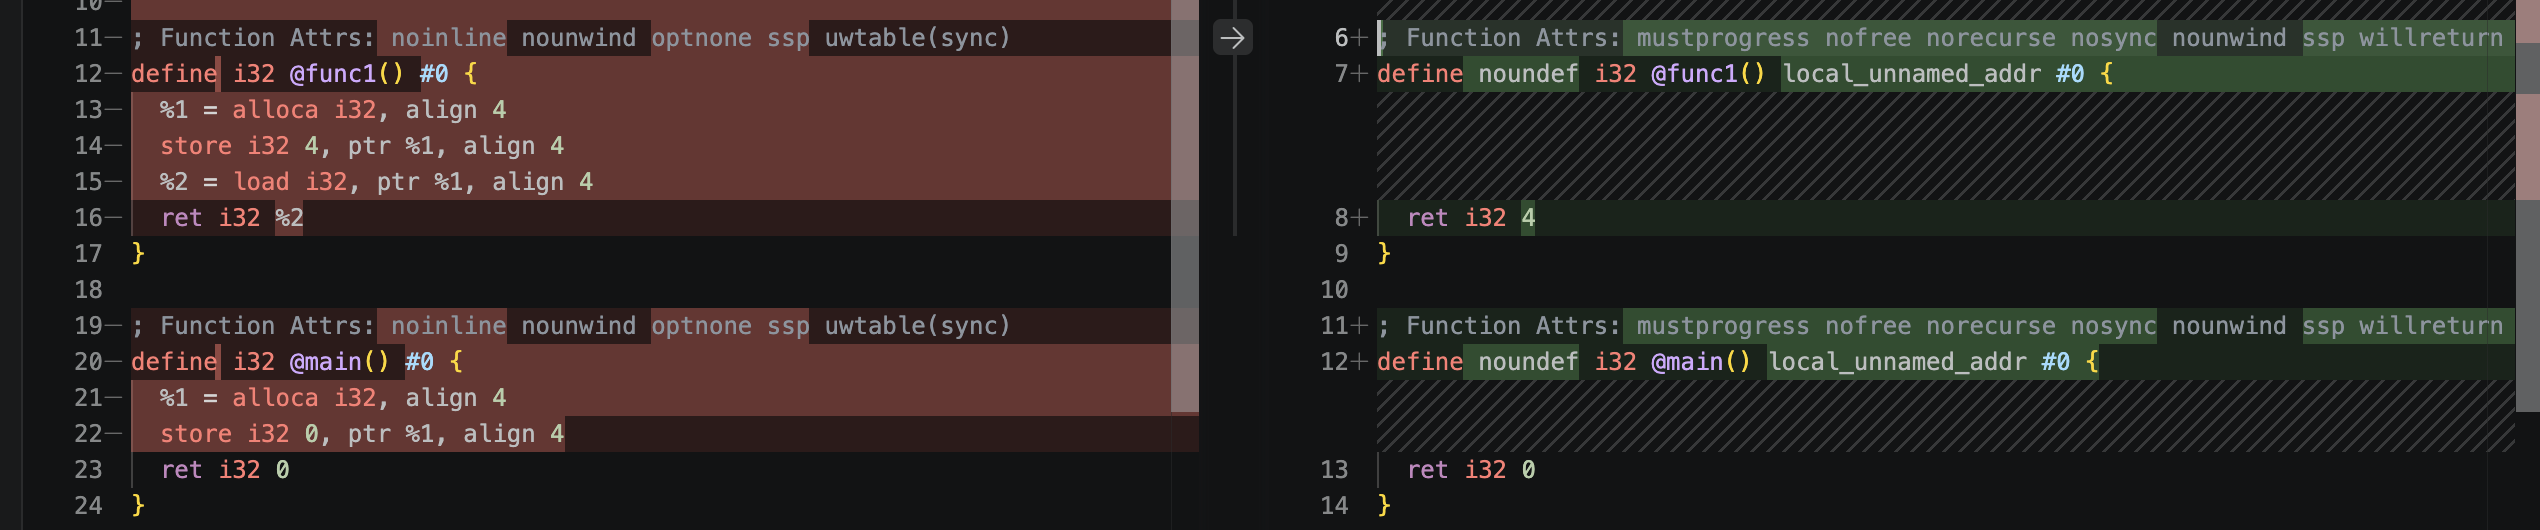
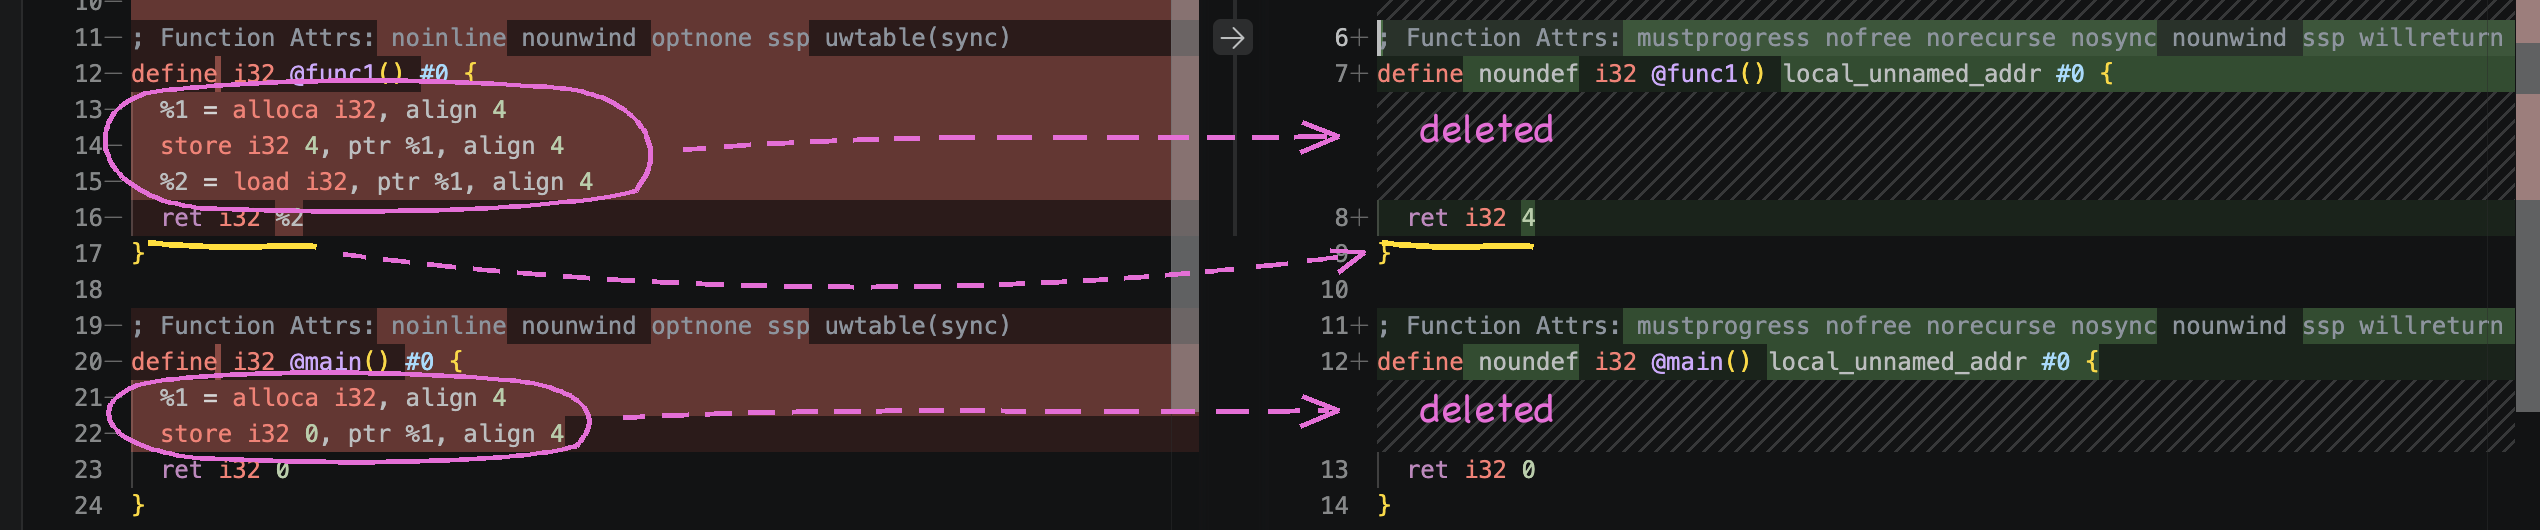
Annotate the optimization diff screenshot with pen marks

diff --git a/content/posts/llvm-0-ir-pipeline/index.md b/content/posts/llvm-0-ir-pipeline/index.md
@@ -124,7 +124,7 @@ clang -O1 -emit-llvm -S Test.c -o Test_O1.ll
 
 `-O0`(기본값)로 뽑은 `Test.ll`과 `-O1`로 뽑은 `Test_O1.ll`을 VS Code의 diff 편집기로 비교하면 다음과 같다.
 
-![Test.ll and Test_O1.ll compared in the VS Code diff editor](images/opt-diff.png?v=2)
+![Test.ll and Test_O1.ll compared in the VS Code diff editor](images/opt-diff.png?v=3)
 
 화면의 왼쪽이 최적화 전(`-O0`), 오른쪽이 최적화 후(`-O1`)다. func1의 본문이 어떻게 바뀌었는지 줄 단위로 대응시키면 다음과 같다.
 

diff --git a/content/posts/llvm-0-ir-pipeline/index.en.md b/content/posts/llvm-0-ir-pipeline/index.en.md
@@ -124,7 +124,7 @@ clang -O1 -emit-llvm -S Test.c -o Test_O1.ll
 
 Comparing `Test.ll` emitted at `-O0` (the default) with `Test_O1.ll` emitted at `-O1` in the VS Code diff editor gives the following.
 
-![Test.ll and Test_O1.ll compared in the VS Code diff editor](images/opt-diff.png?v=2)
+![Test.ll and Test_O1.ll compared in the VS Code diff editor](images/opt-diff.png?v=3)
 
 The left side of the screen is before optimization (`-O0`), and the right side is after (`-O1`). Mapping the body of func1 line by line:
 
